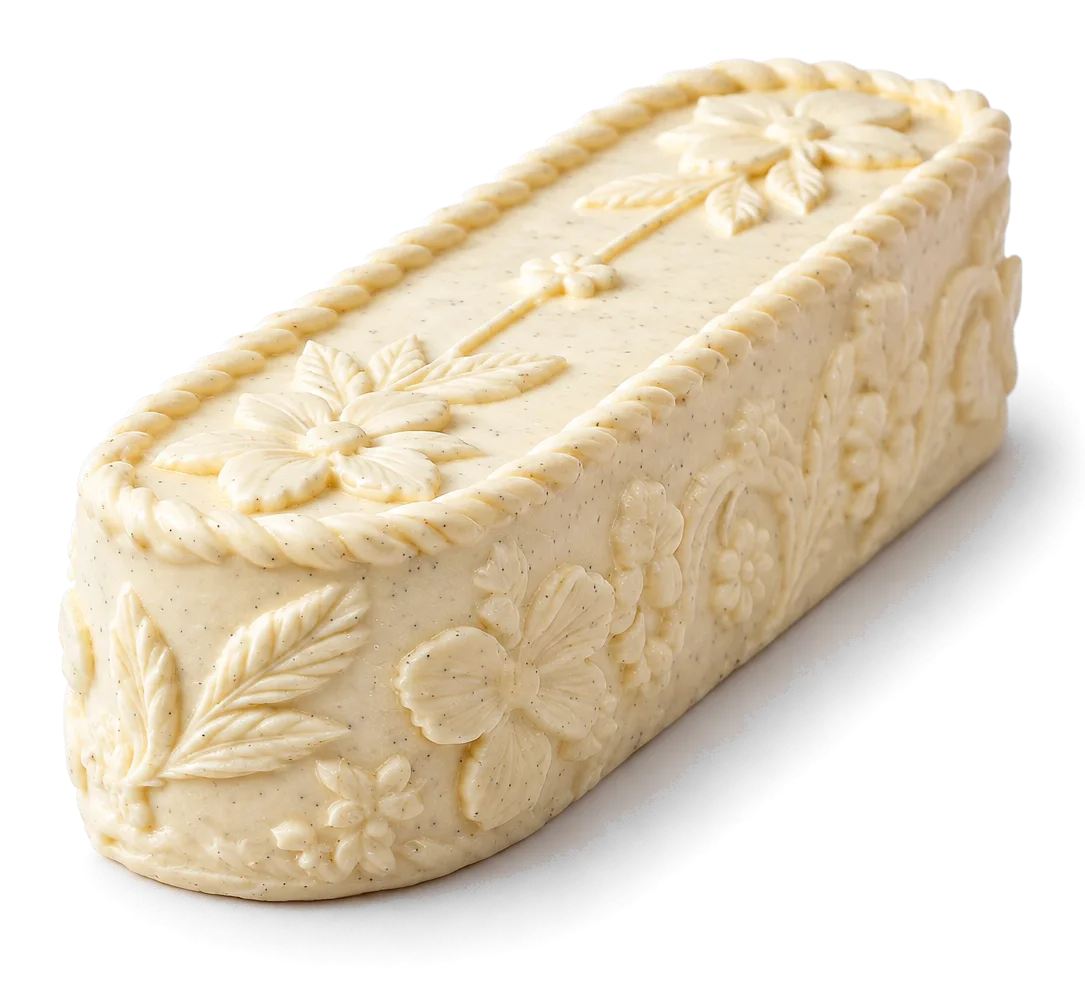
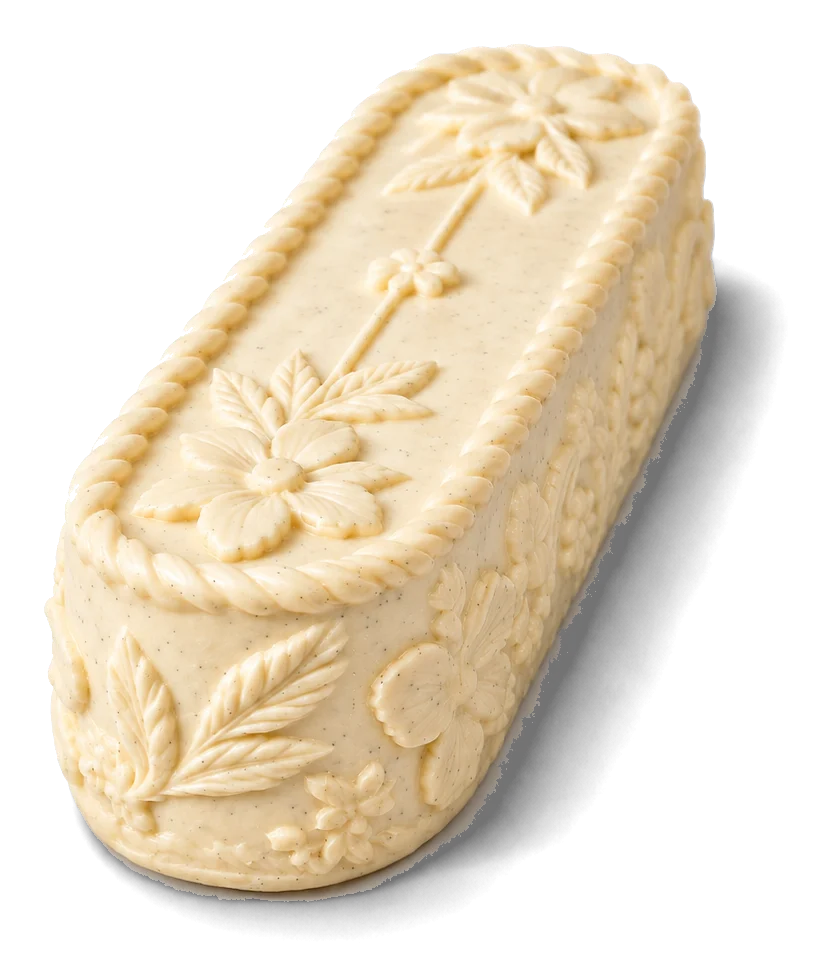
Galette retirée hors saison ; nouvelle photo de profil de la bûche vanille
- Galette en commentaire HORS SAISON : rangée de l'accueil, catalogue et
  onglet Galettes, « Nos autres créations », La Maison
- /galette redirigée temporairement vers /creations ; galette retirée des
  descriptions <meta>
- Rangée « Toute la carte » : cartes qui remplissent la ligne sur ordinateur
- Bûche vanille : nouvelle vue de profil (galerie, catalogue) et version
  détourée pour le carrousel

diff --git a/creations.html b/creations.html
@@ -4,9 +4,9 @@
   <meta charset="utf-8">
   <meta name="viewport" content="width=device-width, initial-scale=1">
   <title>Nos créations · Bryan Didon – Haute Pâtisserie</title>
-  <meta name="description" content="Toutes les créations Bryan Didon : galette des rois, bûches de Noël, praliné, gianduja, vanille de Madagascar. Commande en click & collect, Guadeloupe.">
+  <meta name="description" content="Toutes les créations Bryan Didon : bûches de Noël, praliné, gianduja, vanille de Madagascar. Commande en click & collect, Guadeloupe.">
   <meta property="og:title" content="Nos créations · Bryan Didon – Haute Pâtisserie">
-  <meta property="og:description" content="Toutes les créations Bryan Didon : galette des rois, bûches de Noël, praliné, gianduja, vanille de Madagascar. Commande en click & collect, Guadeloupe.">
+  <meta property="og:description" content="Toutes les créations Bryan Didon : bûches de Noël, praliné, gianduja, vanille de Madagascar. Commande en click & collect, Guadeloupe.">
   <meta property="og:image" content="https://www.bryandidon.fr/images/og-bryan-didon.jpg">
   <meta property="og:url" content="https://www.bryandidon.fr/creations">
   <meta property="og:type" content="website">
@@ -97,11 +97,14 @@
     <div class="filtres" role="group" aria-label="Afficher une catégorie" data-filtres>
         <button class="filtre" type="button" aria-pressed="true" data-filtre="tout">Tout</button>
         <button class="filtre" type="button" aria-pressed="false" data-filtre="buches">Bûches</button>
+        <!-- HORS SAISON – galette : retirer ce commentaire en janvier pour la remettre
         <button class="filtre" type="button" aria-pressed="false" data-filtre="galettes">Galettes</button>
+        -->
         <button class="filtre" type="button" aria-pressed="false" data-filtre="tartiner">À tartiner</button>
         <button class="filtre" type="button" aria-pressed="false" data-filtre="epicerie">Épicerie</button>
     </div>
     <div class="vitrine" id="vitrine">
+        <!-- HORS SAISON – galette : retirer ce commentaire en janvier pour la remettre
         <article class="vitrine__carte" aria-labelledby="carte-galette" data-categorie="galettes">
           <a class="vitrine__media" href="/galette" tabindex="-1" aria-hidden="true">
             <img src="images/galette-entiere.webp" width="1535" height="1024" alt="Galette des rois tressée, vue de trois quarts">
@@ -115,6 +118,7 @@
           </a>
           <a class="lien-fiche" href="/galette">Voir la fiche</a>
         </article>
+        -->
         <article class="vitrine__carte" aria-labelledby="carte-exotique" data-categorie="buches">
           <a class="vitrine__media" href="/buches?parfum=exotique" tabindex="-1" aria-hidden="true">
             <img src="images/buche-exotique-coupe.webp" width="1000" height="883" alt="Bûche exotique coupée : ganache coco et citron vert, coulis et crémeux mangue passion, biscuit madeleine, croustillant praliné">
@@ -146,7 +150,7 @@
         <article class="vitrine__carte" aria-labelledby="carte-vanille" data-categorie="buches">
           <a class="vitrine__media" href="/buches?parfum=vanille" tabindex="-1" aria-hidden="true">
             <img src="images/buche-vanille-coupe.webp" width="1000" height="899" alt="Bûche vanille coupée : ganache montée vanille, mousse vanille torréfiée, caramel beurre salé, biscuit madeleine, croustillant praliné" loading="lazy">
-            <img class="vitrine__survol" src="images/buche-vanille-profil.webp" width="1000" height="880" alt="" loading="lazy">
+            <img class="vitrine__survol" src="images/buche-vanille-profil.webp" width="822" height="973" alt="" loading="lazy">
           </a>
           <p class="vitrine__saison">Noël 2026</p>
           <h2 class="vitrine__nom" id="carte-vanille"><a href="/buches?parfum=vanille">Bûche vanille</a></h2>

diff --git a/index.html b/index.html
@@ -4,7 +4,7 @@
   <meta charset="utf-8">
   <meta name="viewport" content="width=device-width, initial-scale=1">
   <title>Bryan Didon – Haute Pâtisserie · Guadeloupe</title>
-  <meta name="description" content="Bryan Didon, haute pâtisserie en Guadeloupe. Créations pâtissières de saison : galettes des rois, bûches de Noël, praliné, gianduja, vanille de Madagascar. Commande en click & collect.">
+  <meta name="description" content="Bryan Didon, haute pâtisserie en Guadeloupe. Créations pâtissières de saison : bûches de Noël, praliné, gianduja, vanille de Madagascar. Commande en click & collect.">
   <meta property="og:title" content="Bryan Didon – Haute Pâtisserie">
   <meta property="og:description" content="Créations pâtissières de saison, en Guadeloupe.">
   <meta property="og:image" content="images/og-bryan-didon.jpg">
@@ -111,7 +111,7 @@
               <img src="images/buche-chocolat-profil-detoure.webp" width="795" height="1010" alt="Bûche chocolat vue de profil, moulée en relief d'hibiscus et de feuillages, bordée de torsades">
             </figure>
             <figure class="carousel__item carousel__item--fondu" data-name="Bûche vanille">
-              <img src="images/buche-vanille-profil-detoure.webp" width="1085" height="998" alt="Bûche vanille ivoire vue de profil, moulée en relief d'hibiscus et de feuillages, bordée de torsades">
+              <img src="images/buche-vanille-profil-detoure.webp" width="822" height="973" alt="Bûche vanille ivoire vue de profil, moulée en relief d'hibiscus et de feuillages, bordée de torsades">
             </figure>
           </div>
           <div class="carousel__controls">
@@ -189,6 +189,7 @@
           <a class="lien-fiche" href="/creations">Tout voir</a>
         </div>
         <ul class="rail" role="list">
+          <!-- HORS SAISON – galette : retirer ce commentaire en janvier pour la remettre
           <li class="rail__item">
             <a class="rail__carte" href="/galette">
               <img class="rail__img" src="images/galette-entiere.webp" width="1535" height="1024" alt="" loading="lazy">
@@ -197,6 +198,7 @@
               <span class="rail__prix"><span>à partir de</span> 26&nbsp;€</span>
             </a>
           </li>
+          -->
           <li class="rail__item">
             <a class="rail__carte" href="/praline">
               <img class="rail__img" src="images/pate-a-tartiner-praline-vanille.webp" width="588" height="703" alt="" loading="lazy">

diff --git a/buches.html b/buches.html
@@ -119,7 +119,7 @@
         <div class="galerie" data-galerie data-parfum-detail="vanille" hidden>
           <div class="galerie__piste" tabindex="0" role="region" aria-label="Photos de la bûche vanille">
             <figure class="galerie__vue"><img src="images/buche-vanille-coupe.webp" width="1000" height="899" alt="Bûche vanille coupée : ganache montée vanille, mousse vanille torréfiée, caramel beurre salé, biscuit madeleine, croustillant praliné" loading="lazy"></figure>
-            <figure class="galerie__vue"><img src="images/buche-vanille-profil.webp" width="1000" height="880" alt="Bûche vanille vue de profil, moulée en relief d'hibiscus et de feuillages, bordée de torsades" loading="lazy"></figure>
+            <figure class="galerie__vue"><img src="images/buche-vanille-profil.webp" width="822" height="973" alt="Bûche vanille vue de profil, moulée en relief d'hibiscus et de feuillages, bordée de torsades" loading="lazy"></figure>
             <figure class="galerie__vue"><img src="images/buche-vanille-dessus.webp" width="387" height="1000" alt="Bûche vanille vue de dessus : hibiscus, feuillages et torsades" loading="lazy"></figure>
           </div>
           <div class="galerie__vignettes" role="group" aria-label="Choisir une vue">
@@ -256,10 +256,12 @@
         <h2 class="title" id="autres-titre">Nos autres créations</h2>
       </header>
       <div class="autres__liste">
+        <!-- HORS SAISON – galette : retirer ce commentaire en janvier pour la remettre
         <a class="autres__carte" href="/galette">
           <img src="images/galette-entiere.webp" alt="" loading="lazy">
           La galette des rois
         </a>
+        -->
         <a class="autres__carte" href="/praline">
           <img src="images/pate-a-tartiner-praline-vanille.webp" alt="" loading="lazy">
           Le praliné

diff --git a/maison.html b/maison.html
@@ -123,7 +123,9 @@
         <p>Mes cakes de voyage sont au cœur de la maison. Autour d’eux, la carte évolue au fil des saisons et des envies.</p>
       </div>
       <ul class="maison__vignettes" role="list">
+        <!-- HORS SAISON – galette : retirer ce commentaire en janvier pour la remettre
         <li><a href="/galette"><img src="images/galette-entiere.webp" alt="" width="1535" height="1024" loading="lazy">La galette</a></li>
+        -->
         <li><a href="/buches"><img src="images/buche-exotique-coupe.webp" alt="" width="1000" height="883" loading="lazy">Les bûches</a></li>
         <li><a href="/praline"><img src="images/pate-a-tartiner-praline-vanille.webp" alt="" width="588" height="703" loading="lazy">Le praliné</a></li>
         <li><a href="/gianduja"><img src="images/pate-a-tartiner-gianduja.webp" alt="" width="740" height="900" loading="lazy">Le gianduja</a></li>

diff --git a/styles.css b/styles.css
@@ -303,7 +303,7 @@ p { margin: 0 0 1em; }
 .rail__prix span { font-size: 1rem; font-style: italic; color: var(--encre-doux); }
 .carte-apercu__action { margin: 1.25rem 0 0; text-align: center; }
 @media (min-width: 760px) {
-  .rail { margin: 0; padding: 0; overflow: visible; grid-auto-flow: row; grid-template-columns: repeat(4, 1fr); gap: 1.25rem; }
+  .rail { margin: 0; padding: 0; overflow: visible; grid-auto-flow: column; grid-auto-columns: minmax(0, 1fr); gap: 1.25rem; max-width: 64rem; margin-inline: auto; }
   .carte-apercu__action { margin-top: 2rem; }
 }
 @media (prefers-reduced-motion: reduce) { .rail__img { transition: none; } }

diff --git a/gianduja.html b/gianduja.html
@@ -142,10 +142,12 @@
         <h2 class="title" id="autres-titre">Nos autres créations</h2>
       </header>
       <div class="autres__liste">
+        <!-- HORS SAISON – galette : retirer ce commentaire en janvier pour la remettre
         <a class="autres__carte" href="/galette">
           <img src="images/galette-entiere.webp" alt="" loading="lazy">
           La galette des rois
         </a>
+        -->
         <a class="autres__carte" href="/buches">
           <img src="images/buche-exotique-coupe.webp" alt="" loading="lazy">
           Les bûches de Noël

diff --git a/praline.html b/praline.html
@@ -143,10 +143,12 @@
         <h2 class="title" id="autres-titre">Nos autres créations</h2>
       </header>
       <div class="autres__liste">
+        <!-- HORS SAISON – galette : retirer ce commentaire en janvier pour la remettre
         <a class="autres__carte" href="/galette">
           <img src="images/galette-entiere.webp" alt="" loading="lazy">
           La galette des rois
         </a>
+        -->
         <a class="autres__carte" href="/buches">
           <img src="images/buche-exotique-coupe.webp" alt="" loading="lazy">
           Les bûches de Noël

diff --git a/vanille.html b/vanille.html
@@ -147,10 +147,12 @@
         <h2 class="title" id="autres-titre">Nos autres créations</h2>
       </header>
       <div class="autres__liste">
+        <!-- HORS SAISON – galette : retirer ce commentaire en janvier pour la remettre
         <a class="autres__carte" href="/galette">
           <img src="images/galette-entiere.webp" alt="" loading="lazy">
           La galette des rois
         </a>
+        -->
         <a class="autres__carte" href="/buches">
           <img src="images/buche-exotique-coupe.webp" alt="" loading="lazy">
           Les bûches de Noël

diff --git a/CLAUDE.md b/CLAUDE.md
@@ -30,6 +30,7 @@ Site vitrine qui présente la marque et **redirige vers l'application de command
 - `galette.html`, `buches.html` (parfum choisi via `?parfum=exotique|chocolat|vanille`), `praline.html`, `vanille.html`, servies en `/galette`, `/buches`, `/praline`, `/vanille`.
 - Bûches : la description de chaque parfum (parts, couches de haut en bas, pictogrammes allergènes et garanties « sans porc »…) est **uniquement dans `buches.html`** (l'accueil n'en montre plus le détail). Pictogrammes : symboles `#p-*` du sprite SVG.
 - Photos des bûches : `images/buche-<parfum>-coupe|profil|dessus.webp` (fond blanc fondu dans le marbre). La découpe est mise en avant (À la une, catalogue, vignettes) ; galerie des 3 vues sur `/buches`. Le carrousel du haut de l'accueil utilise les vues de profil détourées `buche-<parfum>-profil-detoure.webp` (la galette en est retirée hors saison : la remettre avec `galette-hero.webp`).
+- **Galette hors saison** (jusqu'à janvier) : tous ses blocs sont en commentaire `<!-- HORS SAISON – galette … -->` (accueil, catalogue + onglet Galettes, « Nos autres créations », La Maison), `/galette` est redirigée vers `/creations` (redirection temporaire dans `vercel.json`) et elle est retirée des descriptions `<meta>` de l'accueil et du catalogue. Pour la remettre : décommenter ces blocs, retirer la redirection, remettre « galette des rois » dans les descriptions et `galette-hero.webp` dans le carrousel.
 - Accueil : une création « À la une » (bloc `<article class="une">`, actuellement les bûches ; à remplacer selon la saison, ex. la galette en janvier), puis « Toute la carte » en rangée de petites cartes vers les fiches. Le catalogue complet est sur `/creations` (onglets Bûches / Galettes / À tartiner / Épicerie, lien direct `/creations?categorie=buches` ; un onglet sans produit disparaît).
 - Téléphone : barre « Commander » en bas de l'écran (créée par `script.js`) sur l'accueil et les fiches, seulement panier vide (panier rempli : bouton « Panier » de Takeat).
 - Fiche : recette, ingrédients, allergènes, parts/poids, conservation. Les textes manquants sont marqués `<span class="a-completer">`.
